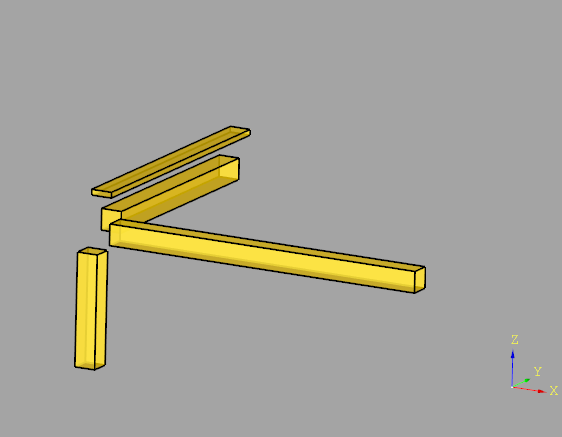
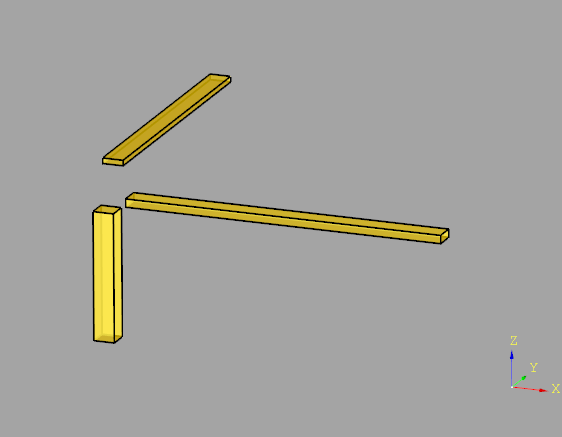
duckboard

Changed region(s): [[0.121, 0.1487, 0.8167, 0.8627], [0.9075, 0.7735, 0.9982, 0.9222]]

diff --git a/student-bed.py b/student-bed.py
@@ -28,7 +28,8 @@ def echo(message) -> None:
 # all measures are in mm
 
 measures ={
-    "@plate.thickness":18,
+    "@thickness.slim":18,
+    "@thickness.plumb":27,
     "@side.length":68,
     "mattress.height":180,
     "mattress.width":900,
@@ -41,16 +42,15 @@ measures ={
 
 # derived measures
 
-measures["stringer.side"]   = measures["@side.length"]
+measures["stringer.height"] = measures["@thickness.plumb"]
+measures["stringer.width"]  = measures["@side.length"]
 measures["stringer.length"] = measures["mattress.length"]*0.5
-measures["ledger.side"]     = measures["@side.length"]
-measures["ledger.length"]   = measures["mattress.width"]-2*measures["@side.length"]
-measures["batten.height"]   = measures["@plate.thickness"]
+measures["batten.height"]   = measures["@thickness.slim"]
 measures["batten.width"]    = measures["@side.length"]
 measures["batten.length"]   = measures["mattress.width"]
+measures["batten.gap"]      = (measures["stringer.length"]-9*measures["batten.width"])/8
 measures["jamb.side"]       = measures["@side.length"]
-measures["jamb.length"]     = measures["mattress.altitude"]-measures["@side.length"]-2*measures["@plate.thickness"]
-
+measures["jamb.length"]     = measures["mattress.altitude"]-measures["@thickness.slim"]-measures["@thickness.plumb"]
 
 # model class
 
@@ -72,32 +72,45 @@ class SimpleBed:
         return
     
     def build(self) -> None:
-        ss = measures["stringer.side"]
-        sl = measures["stringer.length"]
-        stringer = cq.Workplane("XY").box(sl,ss,ss)
+        sh = self.measures["stringer.height"]
+        sw = self.measures["stringer.width"]
+        sl = self.measures["stringer.length"]
+        stringer = cq.Workplane("XY").box(sl,sw,sh)
         #show_object(stringer,name="stringer",options={"alpha":0.2,"color":(255,170,0)})
 
-        ls = measures["ledger.side"]
-        ll = measures["ledger.length"]
-        ledger = cq.Workplane("XY").box(ls,ll,ls)
-        #show_object(ledger,name="ledger",options={"alpha":0.2,"color":(255,170,0)})
-
-        bh = measures["batten.height"]
-        bw = measures["batten.width"]
-        bl = measures["batten.length"]
+        bh = self.measures["batten.height"]
+        bw = self.measures["batten.width"]
+        bl = self.measures["batten.length"]
         batten = cq.Workplane("XY").box(bw,bl,bh)
         #show_object(batten,name="batten",options={"alpha":0.2,"color":(255,170,0)})
 
-        js = measures["jamb.side"]
-        jl = measures["jamb.length"]
+        js = self.measures["jamb.side"]
+        jl = self.measures["jamb.length"]
         jamb = cq.Workplane("XY").box(js,js,jl)
         #show_object(jamb,name="jamb",options={"alpha":0.2,"color":(255,170,0)})
 
         stringer_moved = stringer.translate((600,0,250))
-        ledger_moved   = ledger.translate((0,500,250))
         batten_moved   = batten.translate((0,500,350))
-        parts = jamb.union(stringer_moved).union(ledger_moved).union(batten_moved)
-        show_object(parts,name="parts",options={"alpha":0.2,"color":(255,170,0)})
+        parts = jamb.union(stringer_moved).union(batten_moved)
+        #show_object(parts,name="parts",options={"alpha":0.2,"color":(255,170,0)})
+
+        zo = 0.5*(self.measures["stringer.height"]+self.measures["batten.height"])
+        yo = 0.5*(self.measures["mattress.width"]-self.measures["stringer.width"])
+        xo = 0.5*(self.measures["stringer.length"]-self.measures["batten.width"])
+        skew = self.measures["batten.width"]+self.measures["batten.gap"]
+        stringer_front = stringer.translate((0,+yo,0))
+        stringer_back  = stringer.translate((0,-yo,0))
+        duckboard = stringer_front.union(stringer_back)
+        duckboard = duckboard.union(batten.translate((0,0,zo)))        # middle
+        duckboard = duckboard.union(batten.translate((-xo,0,zo)))      # left most
+        duckboard = duckboard.union(batten.translate((+xo,0,zo)))      # right most
+        duckboard = duckboard.union(batten.translate((-1*skew,0,zo)))  # 1 skew left
+        duckboard = duckboard.union(batten.translate((+1*skew,0,zo)))  # 1 skew right
+        duckboard = duckboard.union(batten.translate((-2*skew,0,zo)))  # 2 skew left
+        duckboard = duckboard.union(batten.translate((+2*skew,0,zo)))  # 2 Skew right
+        duckboard = duckboard.union(batten.translate((-3*skew,0,zo)))  # 3 skew left
+        duckboard = duckboard.union(batten.translate((+3*skew,0,zo)))  # 3 skew right
+        show_object(duckboard,name="duckbboard",options={"alpha":0.2,"color":(255,170,0)})
 
         self.model = parts
         return

diff --git a/README.md b/README.md
@@ -2,7 +2,7 @@
 
 # Student-Bed
 
-![appetizer](docs/parts.png)
+![appetizer](docs/duckboard.png)
 
 # Preamble
 
@@ -158,12 +158,15 @@ Steps 7 & 8 need some more explanation. "edit" and "save" are clear. Revision-ha
 
 The CQ-Editor is primarily used as a model-viewer. In the View-menu turn off all unwanted panels, except "Log viewer" and "Current traceback". And in the Preference-Section enable "autoreload". This flag is required, otherwise an automated model-refresh does not take place, if the model has been changed with VS-Code.
 
-# Mile-Stone #8: Individual Parts
+# Mile-Stone #8: Let the Model grow
 
-The design is kept simple. The duckboard is split into 2 halves (not visible at the moment). In total we need only 4 different parts:
+The design is kept simple. The duckboard is split into 2 halves (not visible at the moment). In total we need only 3 different parts:
 * jambs 
 * stringers
-* ledgers
 * battens
 
-[very first impression](docs/parts.png)
+[parts](docs/parts.png)
+
+All battens are loaded on top of the stringers.
+
+[duckboard](docs/duckboard.png)
